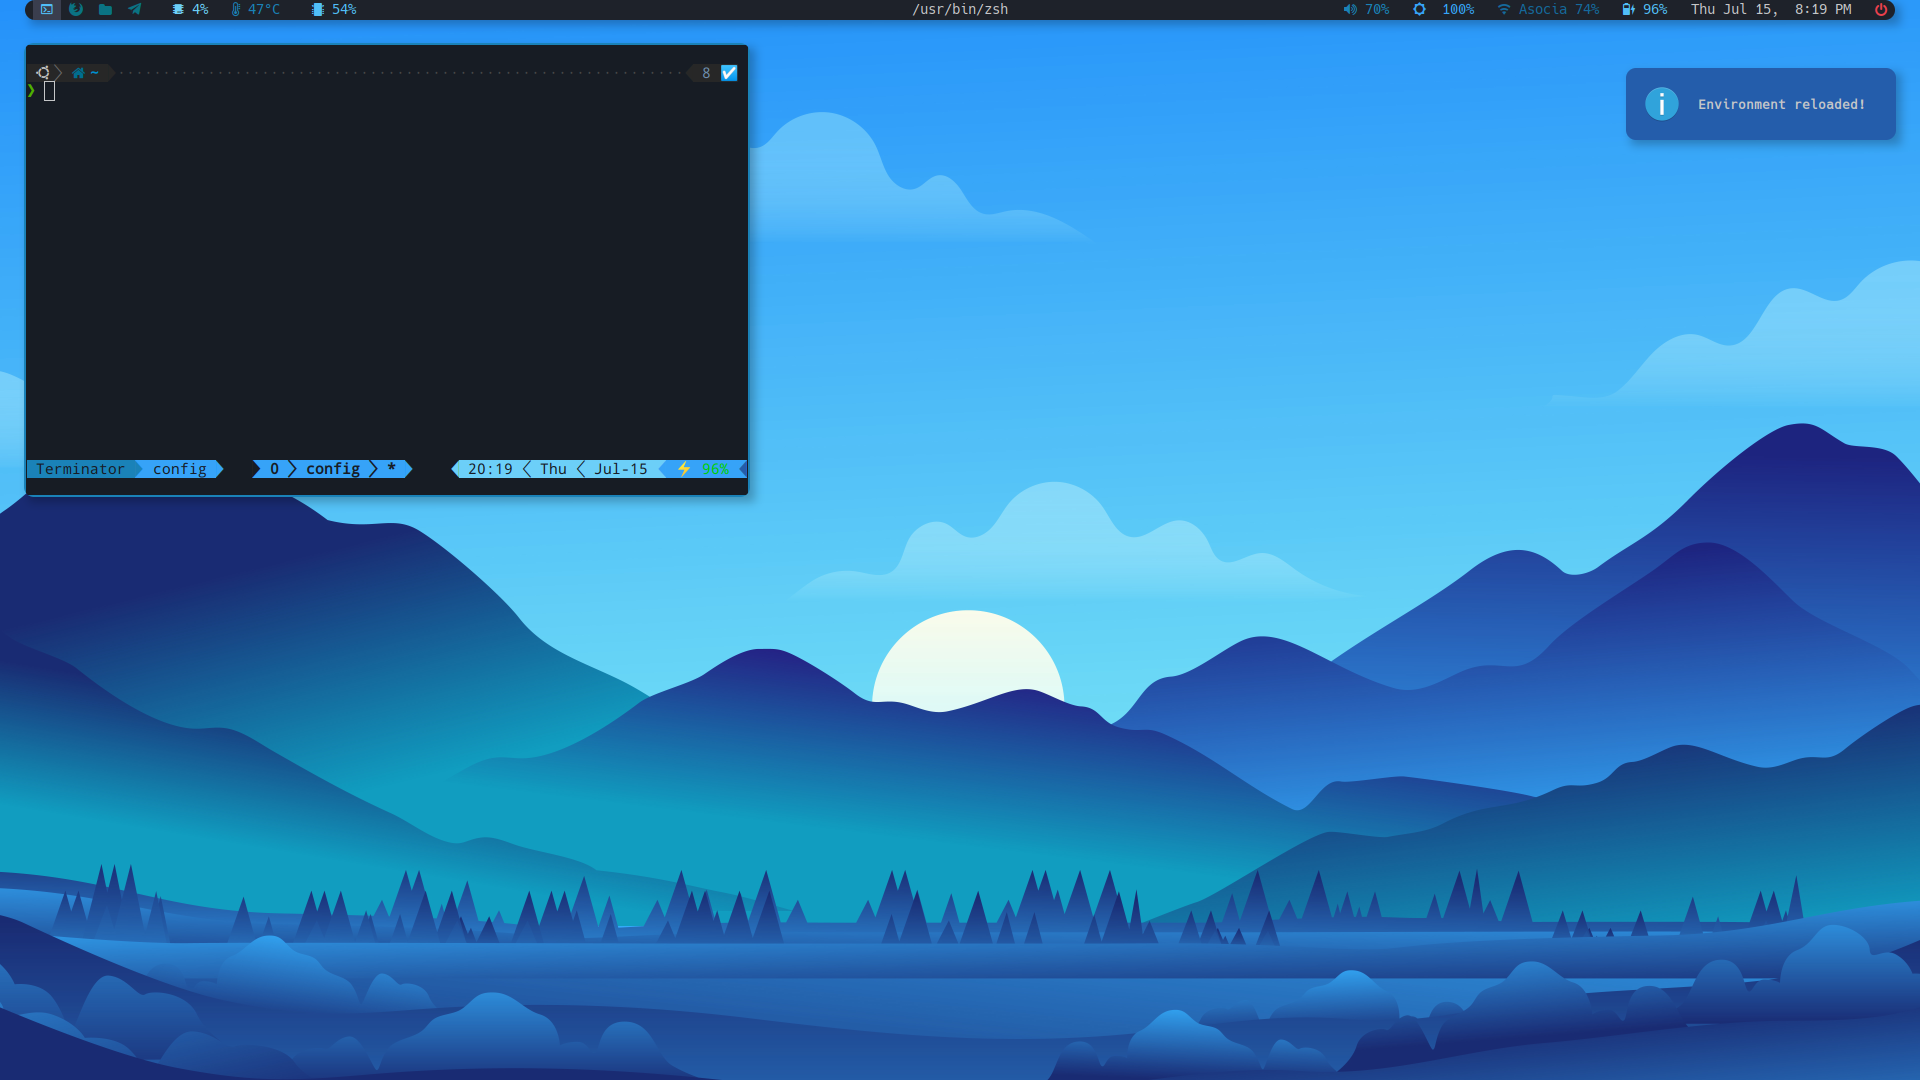
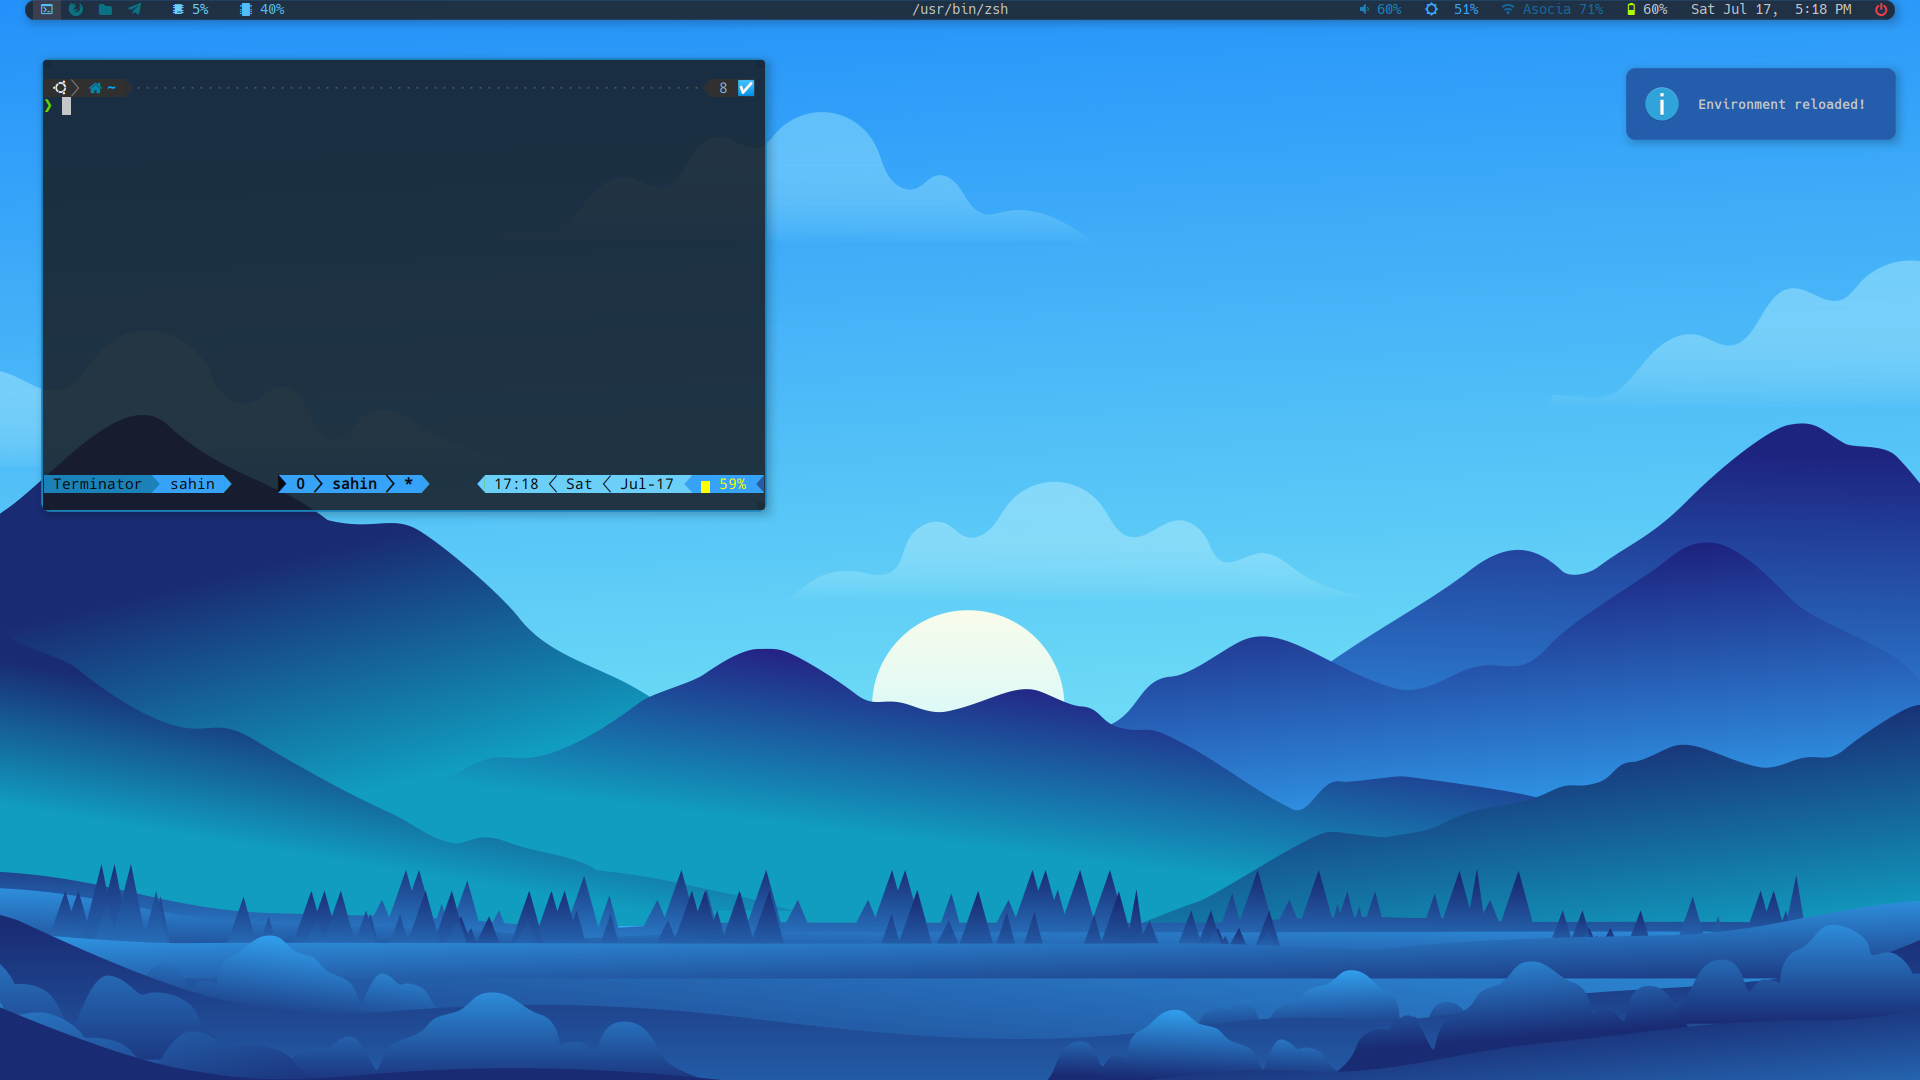
Update screenshots and readme

Changed region(s): [[0.0, 0.0, 1.0, 0.4889]]

diff --git a/README.md b/README.md
@@ -23,6 +23,8 @@ My dotfiles
 ![Sample screenshot](https://raw.github.com/Asocia/dotfiles/master/Pictures/Screenshots/ricing/v4-4.png)
 ![Sample screenshot](https://raw.github.com/Asocia/dotfiles/master/Pictures/Screenshots/ricing/v4-5.png)
 ![Sample screenshot](https://raw.github.com/Asocia/dotfiles/master/Pictures/Screenshots/ricing/v4-6.png)
+![Sample screenshot](https://raw.github.com/Asocia/dotfiles/master/Pictures/Screenshots/ricing/v4-7.png)
+![Sample screenshot](https://raw.github.com/Asocia/dotfiles/master/Pictures/Screenshots/ricing/v4-8.png)
 
 
 
